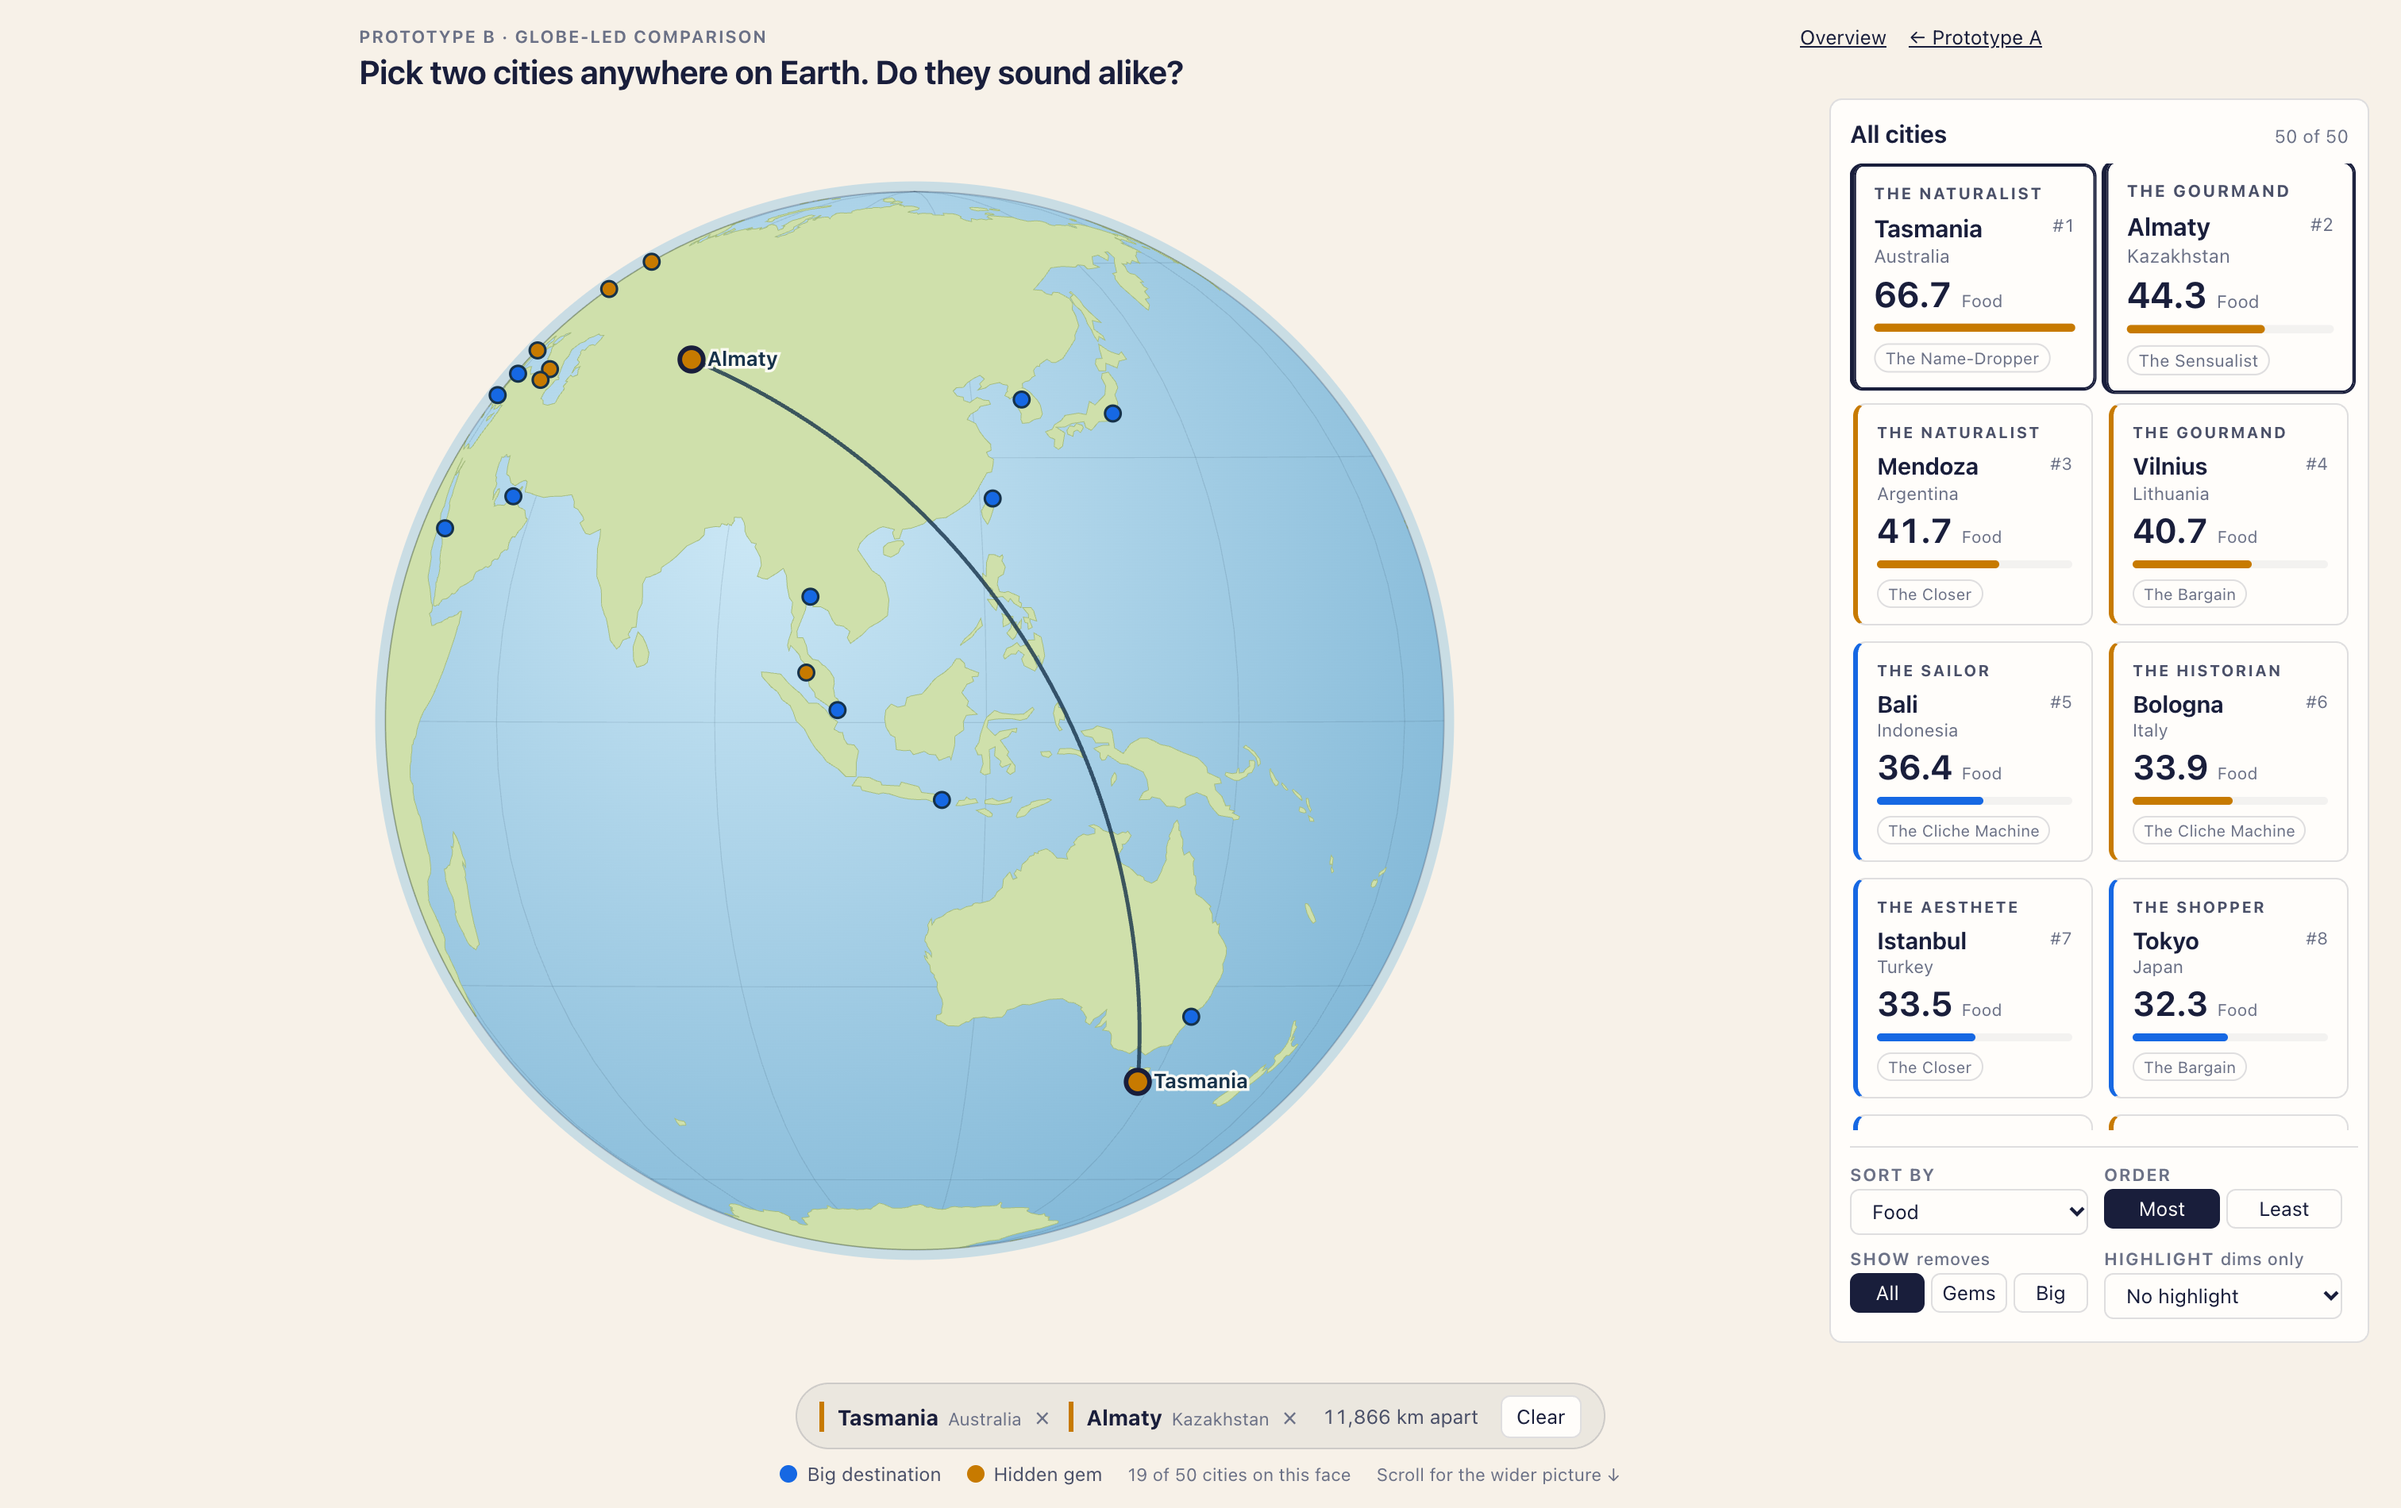
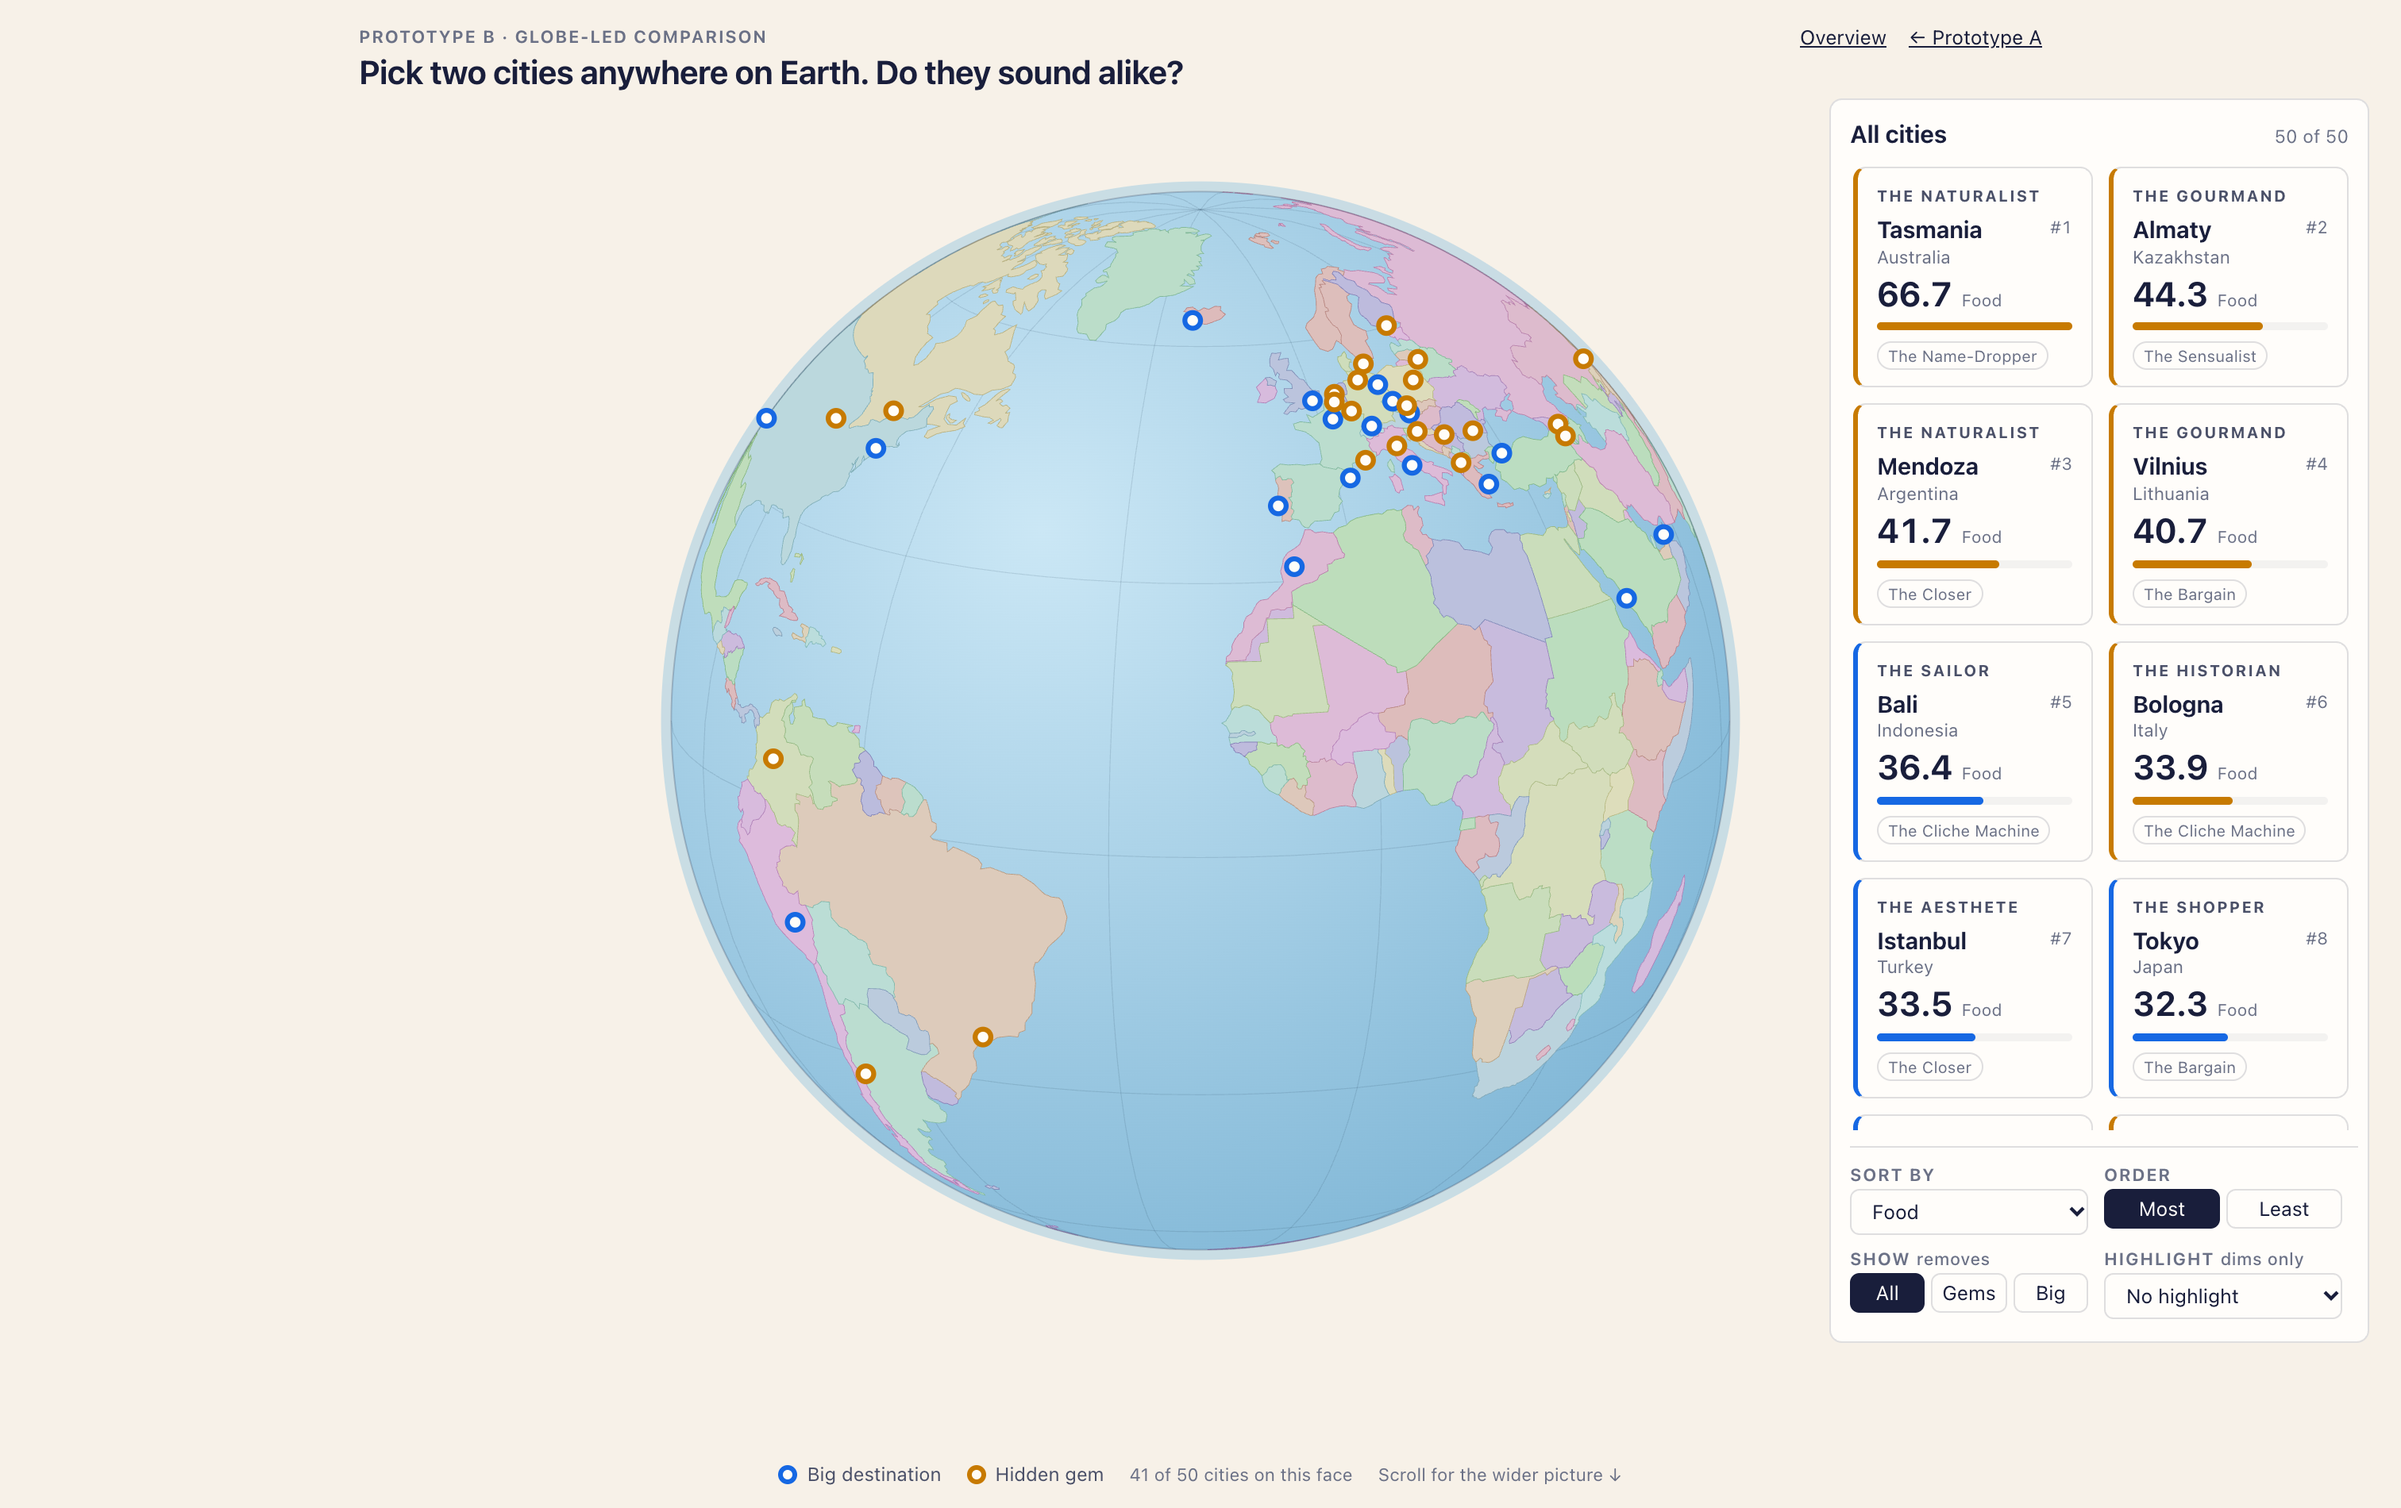
globe: tint every country, move category into the marker ring
Swaps land-110m for countries-110m (177 polygons) so each country can
be tinted separately — a political-map look rather than one landmass.
Hues step by the golden angle at fixed low saturation and high
lightness, so neighbours differ and the tints stay paper rather than
ink.

Those tints are separation, NOT an encoding: no legend, no meaning.
Recorded as such in CLAUDE.md so nobody later adds a legend for them.

Because the backdrop is now a different colour under every marker, a
coloured fill would be read against something different each time. So
category moves to the marker's RING: a near-white core with a 3.2px
category stroke, which reads the same on any tint. The legend swatches
become rings to match, and selection thickens the ring plus an ink
halo rather than recolouring it.

The globe is page-centred again — the inventory floats over the right
instead of taking a grid column, and the sphere reserves equal width
on both sides so it never runs under it. Verified 0.0px off centre at
1512px and 1280px, with no overlap at either.

34/34 interaction checks pass, no console errors.

diff --git a/src/lib/Globe.svelte b/src/lib/Globe.svelte
@@ -12,7 +12,8 @@
 
   let {
     cities = [],
-    land = null,
+    /** GeoJSON FeatureCollection of countries. */
+    countries = null,
     /** Names to keep emphasised; the rest stay drawn and clickable. */
     highlightNames = null,
     hoveredCity = null,
@@ -199,6 +200,21 @@
       .join(' ');
   });
 
+  /**
+   * A tint per country, for separation only.
+   *
+   * Hues step by the golden angle so neighbours land far apart on the wheel,
+   * and saturation and lightness are pinned low and high: this is paper, not
+   * ink. Category is carried by the marker ring rather than a fill, so nothing
+   * here competes with the data.
+   */
+  function countryFill(i) {
+    return `hsl(${((i * 137.508) % 360).toFixed(1)} 34% 80%)`;
+  }
+  function countryStroke(i) {
+    return `hsl(${((i * 137.508) % 360).toFixed(1)} 28% 62%)`;
+  }
+
   const graticule = (() => {
     // Simple graticule: meridians every 30°, parallels every 30°.
     const lines = [];
@@ -250,8 +266,10 @@
         <path class="grat" d={path(g)} />
       {/each}
 
-      {#if land}
-        <path class="land" d={path(land)} />
+      {#if countries}
+        {#each countries.features as f, i (f.id ?? i)}
+          <path class="country" d={path(f)} fill={countryFill(i)} stroke={countryStroke(i)} />
+        {/each}
       {/if}
 
       <circle cx={size / 2} cy={size / 2} r={R} class="rim" />
@@ -351,7 +369,7 @@
   .glow { fill: none; stroke: #9cc9e0; stroke-opacity: 0.5; stroke-width: 7; }
   .rim { fill: none; stroke: rgba(25, 30, 59, 0.22); stroke-width: 1; }
   .grat { fill: none; stroke: #16324a; stroke-opacity: 0.13; stroke-width: 0.6; pointer-events: none; }
-  .land { fill: var(--globe-land); stroke: var(--globe-coast); stroke-width: 0.5; pointer-events: none; }
+  .country { stroke-width: 0.45; pointer-events: none; }
 
   .arc {
     fill: none;
@@ -362,19 +380,24 @@
     pointer-events: none;
   }
 
+  /* Category lives in the RING, not the fill: every country underneath is now
+     a different colour, so a coloured fill would be read against a different
+     backdrop each time. A near-white core keeps the marker legible on any
+     tint, and the ring is thick enough to carry the hue. */
   .dot {
-    fill: var(--big);
-    /* A light ring keeps the category hue separable from the terrain under it. */
-    /* Dark ring: the terrain is now light, so a light ring would vanish. This
-       is also the relief the amber dot needs, since on land and shallow ocean
-       it sits at 2.1-2.4:1 rather than 3. */
-    stroke: #16324a;
-    stroke-width: 1.6;
+    fill: #fffdf8;
+    stroke: var(--big);
+    stroke-width: 3.2;
     cursor: pointer;
   }
-  .dot.gem { fill: var(--gem); }
+  .dot.gem { stroke: var(--gem); }
   .dot.faded { opacity: 0.25; }
-  .dot.picked, .dot.hovered { stroke: #191e3b; stroke-width: 3; }
+  /* Selection thickens the ring and adds an ink halo, so it reads without
+     taking the category hue away. */
+  .dot.picked, .dot.hovered {
+    stroke-width: 4.4;
+    filter: drop-shadow(0 0 2.5px rgba(25, 30, 59, 0.95));
+  }
   .dot:focus-visible { outline: 2px solid var(--text-primary); outline-offset: 2px; }
 
   .label {

diff --git a/src/routes/prototype-b/+page.svelte b/src/routes/prototype-b/+page.svelte
@@ -15,7 +15,7 @@
    * and ranks all fifty; B starts from a place and drills into a pair.
    */
   import { onMount } from 'svelte';
-  import { loadCities, loadLand, greatCircleKm, AXIS_OPTIONS, axisById } from '$lib/data.js';
+  import { loadCities, loadCountries, greatCircleKm, AXIS_OPTIONS, axisById } from '$lib/data.js';
   import Globe from '$lib/Globe.svelte';
   import CardGrid from '$lib/CardGrid.svelte';
   import ThemeScatter from '$lib/ThemeScatter.svelte';
@@ -23,7 +23,7 @@
   import Legend from '$lib/Legend.svelte';
 
   let cities = $state([]);
-  let land = $state(null);
+  let countries = $state(null);
   let error = $state(null);
 
   // --- shared selection state, one owner each ---------------------------
@@ -71,9 +71,9 @@
 
   onMount(async () => {
     try {
-      const [loaded, geo] = await Promise.all([loadCities(), loadLand()]);
+      const [loaded, geo] = await Promise.all([loadCities(), loadCountries()]);
       cities = loaded.cities;
-      land = geo;
+      countries = geo;
     } catch (e) {
       error = e.message;
     }
@@ -105,7 +105,7 @@
         <div class="globe-slot">
           <Globe
             cities={shown}
-            {land}
+            {countries}
             {highlightNames}
             {hoveredCity}
             {picks}
@@ -278,18 +278,16 @@
   }
   /* Globe and inventory share the hero. The globe keeps the centre of
      attention; the inventory makes the far side of the sphere reachable. */
+  /* The globe stays centred on the page; the inventory floats over the right
+     instead of taking a grid column, which would push the sphere off centre. */
   .hero-body {
     position: absolute;
     inset: 0;
     padding: 62px 20px 104px;
-    display: grid;
-    grid-template-columns: minmax(0, 1fr) 340px;
-    gap: 20px;
-    align-items: center;
   }
   .globe-slot {
-    min-width: 0;
-    height: 100%;
+    position: absolute;
+    inset: 62px 20px 104px;
     display: flex;
     align-items: center;
     justify-content: center;
@@ -299,13 +297,20 @@
      Letting flex resolve both left it square only by accident. */
   .globe-slot :global(.stage) {
     flex: none;
-    width: min(100%, calc(100dvh - 240px));
+    /* Leave room for the floating inventory on the right (340px + gutters)
+       on both sides, so the sphere stays centred and never runs under it. */
+    width: min(calc(100% - 720px), calc(100dvh - 240px));
     height: auto;
     aspect-ratio: 1;
   }
 
   .inventory {
-    height: 100%;
+    position: absolute;
+    top: 62px;
+    right: 20px;
+    bottom: 104px;
+    width: 340px;
+    z-index: 3;
     min-height: 0;
     display: flex;
     flex-direction: column;

diff --git a/src/lib/data.js b/src/lib/data.js
@@ -322,10 +322,18 @@ export async function loadCities(fetchImpl = fetch) {
   return { cities, themeStats, corpusThemeMean };
 }
 
-/** World land outline for the map view, as GeoJSON. */
-export async function loadLand(fetchImpl = fetch) {
-  const topo = await json(asset('land-110m.json'), { fetch: fetchImpl });
-  return feature(topo, topo.objects.land);
+/**
+ * Country polygons for the globe, as GeoJSON.
+ *
+ * Countries rather than one landmass so each can be tinted separately. Those
+ * tints are basemap separation — the way a political map gives neighbours
+ * different colours — not an encoding: there is no legend for them and nothing
+ * invites reading meaning into them. City category is carried by the marker
+ * ring instead. See CLAUDE.md.
+ */
+export async function loadCountries(fetchImpl = fetch) {
+  const topo = await json(asset('countries-110m.json'), { fetch: fetchImpl });
+  return feature(topo, topo.objects.countries);
 }
 
 // --- pairwise measures, for any two cities the user picks ----------------

diff --git a/src/lib/Legend.svelte b/src/lib/Legend.svelte
@@ -24,8 +24,14 @@
     color: var(--text-secondary);
   }
   .item { display: inline-flex; align-items: center; gap: 6px; }
-  .sw { width: 11px; height: 11px; border-radius: 50%; display: inline-block; }
-  .sw.big { background: var(--big); }
-  .sw.gem { background: var(--gem); }
+  /* A ring, not a disc: on the globe the category is the marker's ring, since
+     every country underneath is a different colour. */
+  .sw {
+    width: 12px; height: 12px; border-radius: 50%;
+    display: inline-block; box-sizing: border-box;
+    background: #fffdf8; border: 3px solid;
+  }
+  .sw.big { border-color: var(--big); }
+  .sw.gem { border-color: var(--gem); }
   .caveat { color: var(--text-muted); font-size: 0.7rem; max-width: 52ch; }
 </style>

diff --git a/CLAUDE.md b/CLAUDE.md
@@ -49,15 +49,27 @@ How 50 cities' official tourism sites describe themselves, and which cities soun
 
 ## Encoding rules
 
-- **Colour encodes city category and nothing else**, everywhere, in both
-  prototypes: big destination `#2a78d6` (blue), hidden gem `#eb6834` (orange).
-  Validated for CVD and contrast in light and dark mode.
-- Archetype (10 values) and theme (10 values) have too many levels for colour.
-  They get **position, grouping, or length** — never a 10-hue ramp.
-- Selection is a ring + label, never a new hue. Hover is opacity.
-- Legend present whenever two categories are on screen; direct-label where there
-  is room. Identity is never carried by colour alone.
-- Dark mode is defined explicitly, not an automatic flip.
+- **Colour encodes city category and nothing else**: big destination
+  `#1668e3` (Expedia blue), hidden gem `#c77a00` (amber). Validated for CVD
+  and contrast — run the dataviz skill's `validate_palette.js` before changing
+  either. Expedia's own yellow `#ffc94d` fails (1.49:1, lightness 0.863) and
+  must not be used for data.
+- **On the globe, category is the marker's RING, not its fill.** Every country
+  is tinted separately there, so a coloured fill would be read against a
+  different backdrop each time. Markers are a near-white core plus a 3.2px
+  category ring.
+- **Country tints are basemap separation, not an encoding.** Golden-angle hues
+  at fixed low saturation / high lightness, the way a political map gives
+  neighbours different colours. There is no legend for them and nothing in the
+  UI invites reading meaning into them. Never add one.
+- Archetype (8 values) and theme (10 values) have too many levels for colour.
+  They get **position, grouping, or text** — never an 8- or 10-hue ramp.
+- Selection thickens the ring and adds an ink halo, never a new hue. Hover is
+  opacity and scale.
+- Legend present whenever two categories are on screen; direct-label where
+  there is room. Identity is never carried by colour alone.
+- **Light only. There is no dark mode** — the palette is a light-mode brand
+  look and the tan page `#f7f1e8` is the point of it.
 
 ## Data constraints (from data/METHODOLOGY.md — read it before adding a measure)
 
